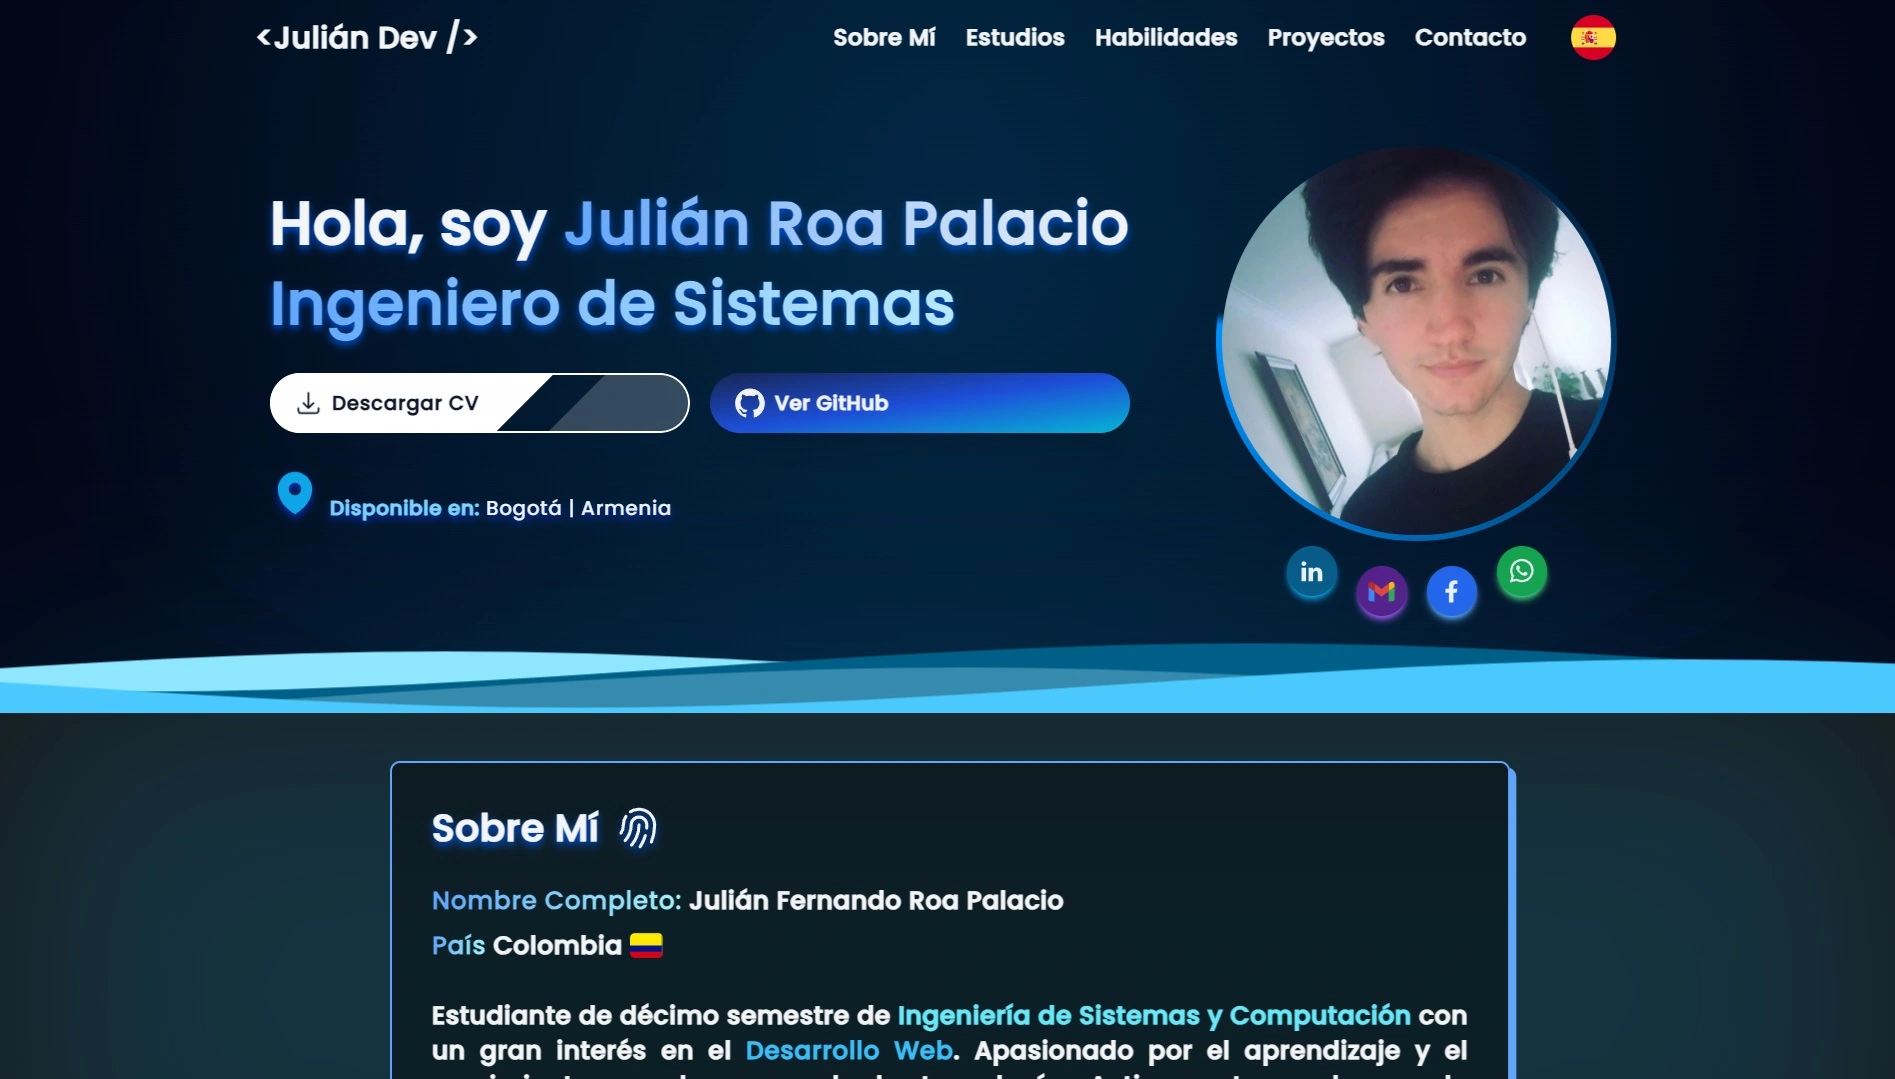
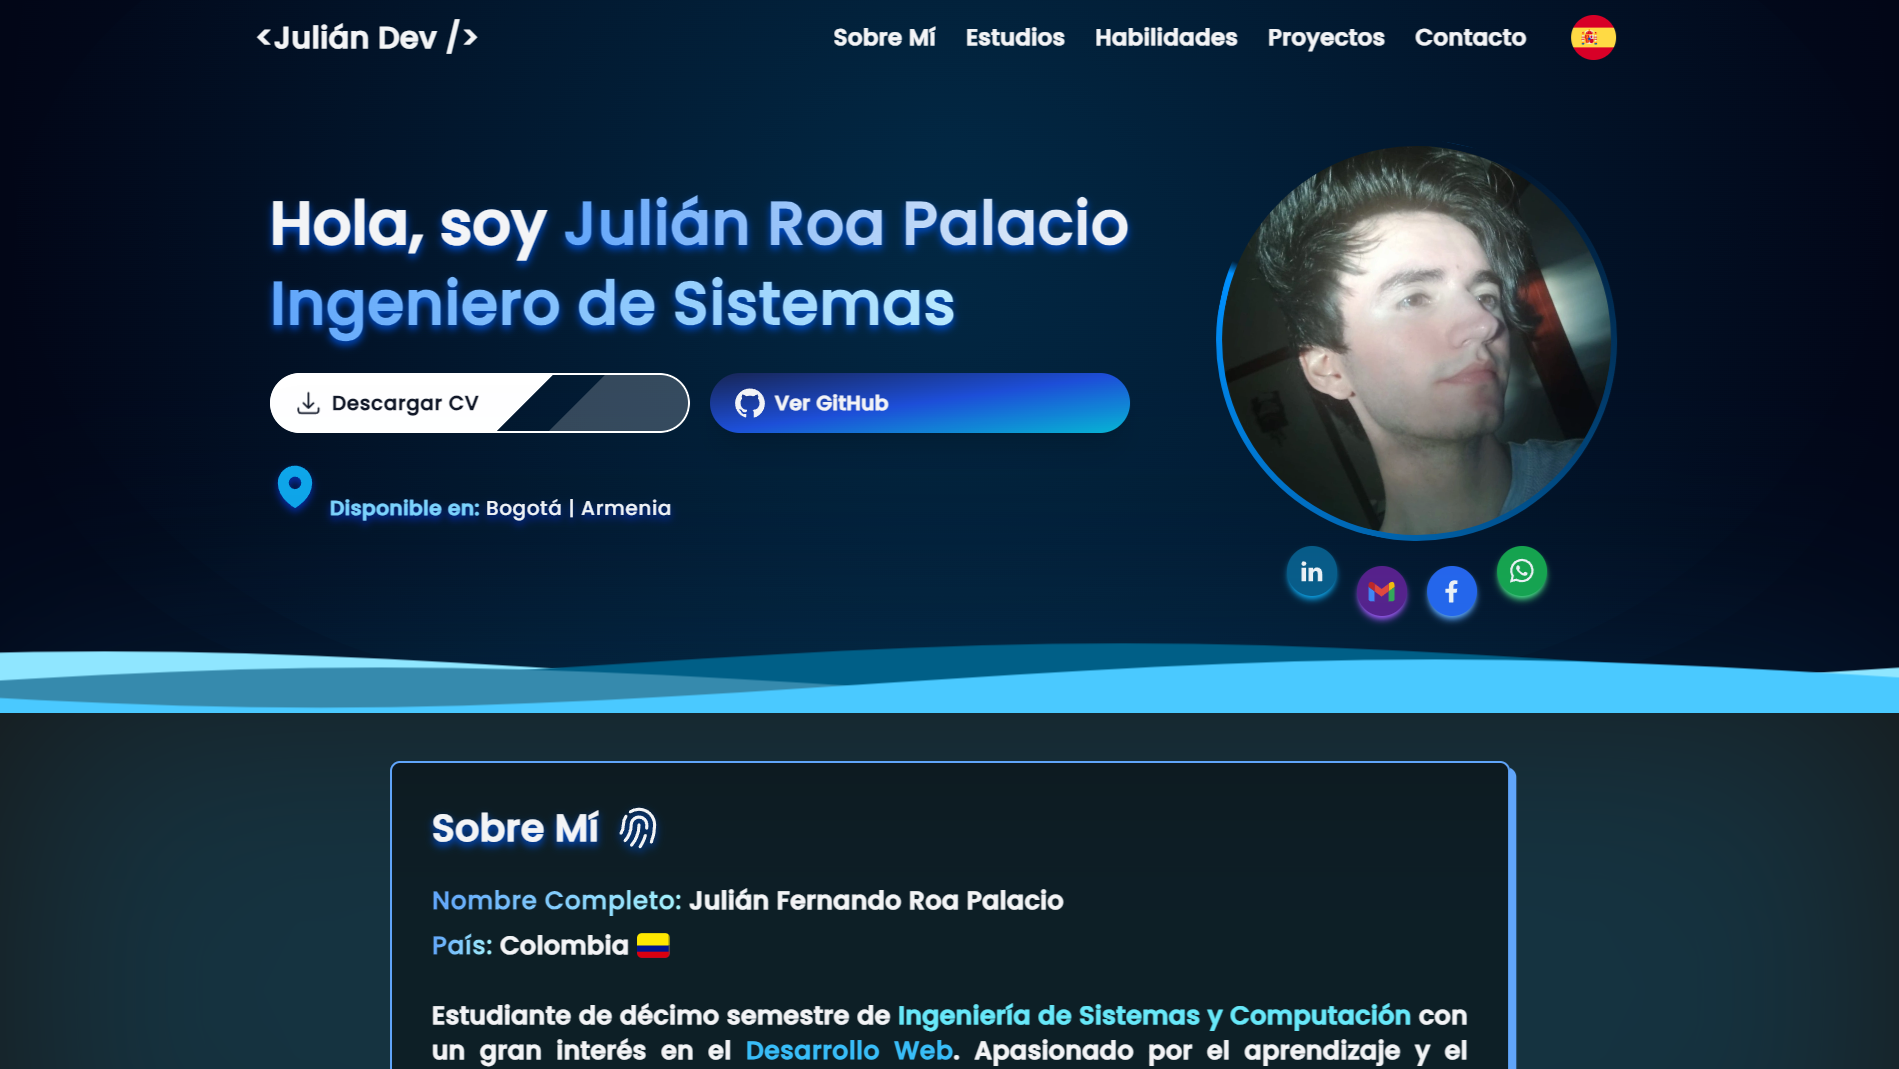
img update

diff --git a/src/components/Main.tsx b/src/components/Main.tsx
@@ -91,8 +91,8 @@ const Main = ({ flagEs }: flagProp) => {
             </div>
             <div className="col-span-1 flex flex-col gap-5 justify-start items-center py-3 overflow-hidden">
               <img
-                className="max-w-52 md:max-w-full h-auto rounded-full box -rotate-45"
-                src="img/file.webp"
+                className="max-w-52 md:max-w-full h-auto rounded-full box rotate-12"
+                src="img/julian.webp"
                 alt="Imagen perfil"
                 width={321}
                 height={251}
